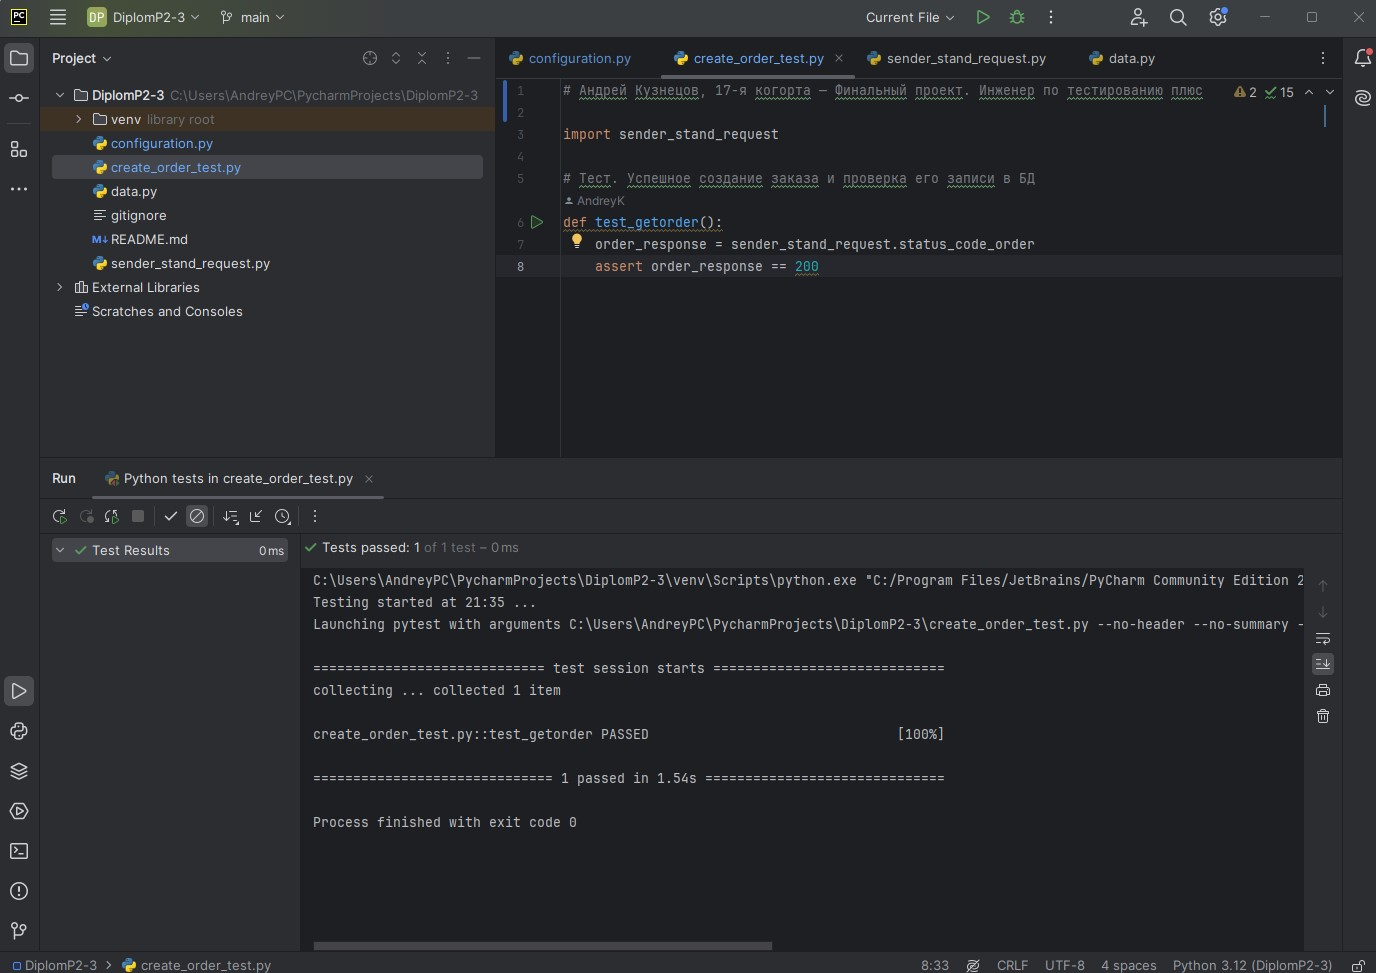
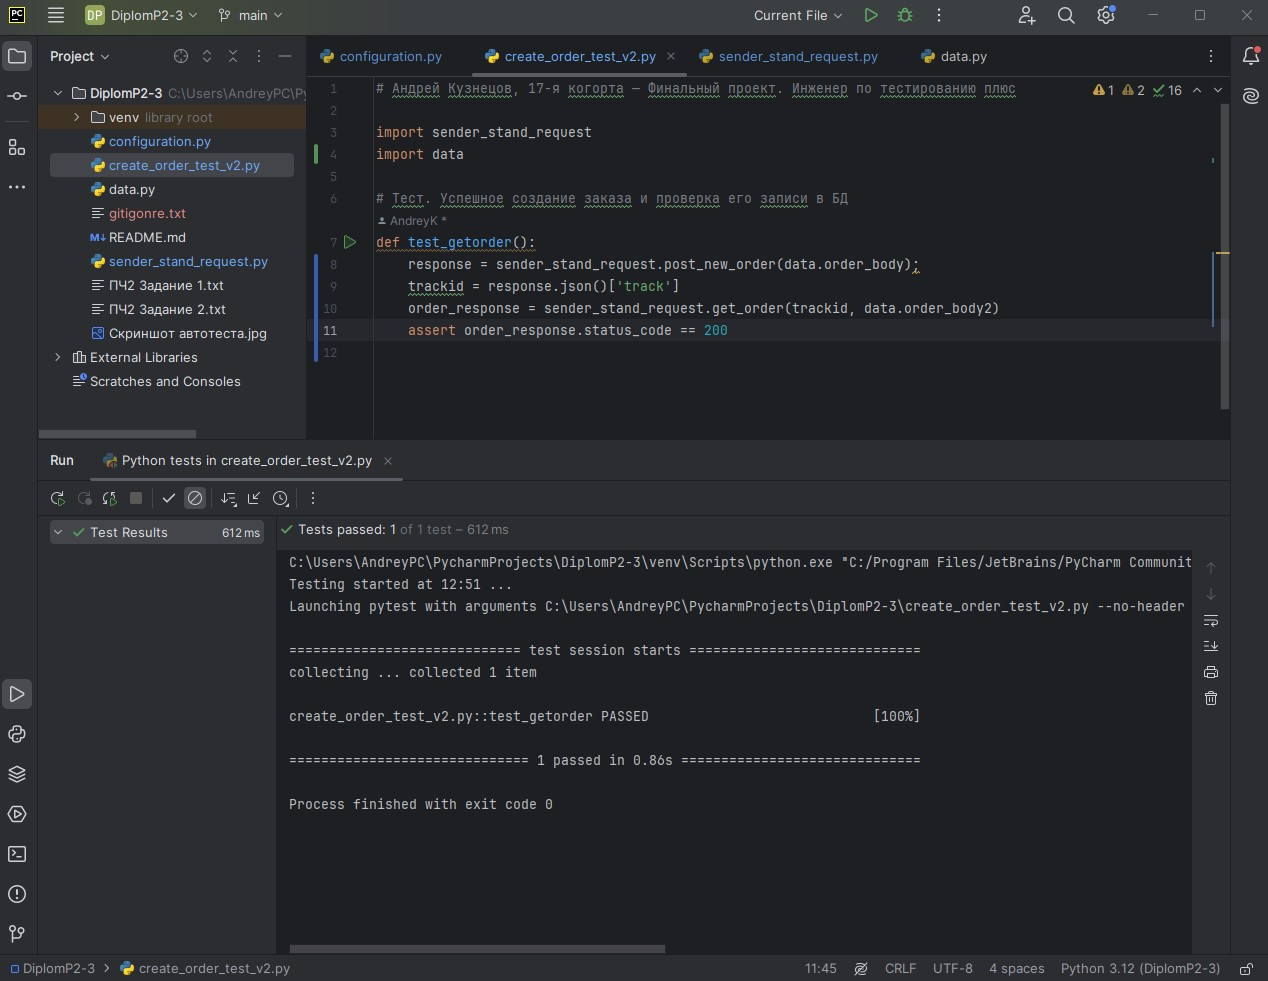
version2-doravotka

diff --git a/sender_stand_request.py b/sender_stand_request.py
@@ -7,15 +7,9 @@ def post_new_order(body):
     return requests.post(configuration.URL_SERVICE + configuration.CREATE_ORDER_PATH,
                          json=body,
                          headers=data.headers)
-response = post_new_order(data.order_body);
 
-trackid = response.json()['track']
-
-print(trackid)
 # Получение заказа по номеру
-def get_order(body):
+def get_order(trackid, body):
     return requests.get(configuration.URL_SERVICE + configuration.GET_ORDER_PATH + str(trackid),
                          json=body,
                          headers=data.headers)
-response = get_order(data.order_body2);
-status_code_order = response.status_code

diff --git a/create_order_test_v2.py b/create_order_test_v2.py
@@ -1,8 +1,11 @@
 # Андрей Кузнецов, 17-я когорта — Финальный проект. Инженер по тестированию плюс
 
 import sender_stand_request
+import data
 
 # Тест. Успешное создание заказа и проверка его записи в БД
 def test_getorder():
-    order_response = sender_stand_request.status_code_order
-    assert order_response == 200
+    response = sender_stand_request.post_new_order(data.order_body);
+    trackid = response.json()['track']
+    order_response = sender_stand_request.get_order(trackid, data.order_body2)
+    assert order_response.status_code == 200

diff --git a/configuration.py b/configuration.py
@@ -1,3 +1,3 @@
-URL_SERVICE = "https://a49caff5-03fd-401c-bd26-c4853cdfb49a.serverhub.praktikum-services.ru/"
+URL_SERVICE = "https://7d3dbc83-2c45-48f7-aab1-144315257d20.serverhub.praktikum-services.ru/"
 CREATE_ORDER_PATH = "/api/v1/orders"
 GET_ORDER_PATH = "/api/v1/orders/track?t="
